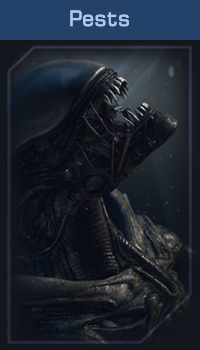
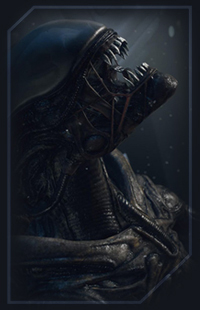
Style the navigation buttons in the navbar

diff --git a/assets/css/style.css b/assets/css/style.css
@@ -159,10 +159,13 @@ nav span {
     color: #AECAEA;
 }
 
-.nav-about-img {
-    background-image: url("../images/navigation-about-full.jpg");
+.nav-img {
     height: 280px;
     margin-top: 10px;
+}
+
+.nav-about-img {
+    background-image: url("../images/navigation-about-full.jpg");
 }
 
 nav span:hover {
@@ -176,3 +179,66 @@ nav span:hover > .nav-about-img {
 .nav-about-img:hover {
     background-image: url("../images/navigation-about-on-full.jpg");
 }
+
+.nav-services-img {
+    background-image: url("../images/navigation-services-full.jpg");
+}
+
+.nav-services-img:hover {
+    background-image: url("../images/navigation-services-on-full.jpg");
+}
+
+nav span:hover > .nav-services-img {
+    background-image: url("../images/navigation-services-on-full.jpg");
+}
+
+.nav-pests-img {
+    background-image: url("../images/navigation-pests-full.jpg");
+}
+
+.nav-pests-img:hover {
+    background-image: url("../images/navigation-pests-on-full.jpg");
+}
+
+nav span:hover > .nav-pests-img {
+    background-image: url("../images/navigation-pests-on-full.jpg");
+}
+
+.nav-testimonials-img {
+    background-image: url("../images/navigation-testimonials-full.jpg");
+}
+
+.nav-testimonials-img:hover {
+    background-image: url("../images/navigation-testimonials-on-full.jpg");
+}
+
+nav span:hover > .nav-testimonials-img {
+    background-image: url("../images/navigation-testimonials-on-full.jpg");
+}
+
+.nav-team-img {
+    background-image: url("../images/navigation-team-full.jpg");
+}
+
+.nav-team-img:hover {
+    background-image: url("../images/navigation-team-on-full.jpg");
+}
+
+nav span:hover > .nav-team-img {
+    background-image: url("../images/navigation-team-on-full.jpg");
+}
+
+.nav-contact-img {
+    background-image: url("../images/navigation-contact-full.jpg");
+}
+
+.nav-contact-img:hover {
+    background-image: url("../images/navigation-contact-on-full.jpg");
+}
+
+nav span:hover > .nav-contact-img {
+    background-image: url("../images/navigation-contact-on-full.jpg");
+}
+
+
+

diff --git a/index.html b/index.html
@@ -43,26 +43,34 @@
         <div>
             <a href="#">
                 <span>About
-                    <span class="nav-about-img"></span>
+                    <span class="nav-img nav-about-img"></span>
                 </span>
             </a>
             <a href="#">
                 <span>Services
-                    <span class="nav-about-img"></span>
+                    <span class="nav-img nav-services-img"></span>
                 </span>
             </a>
-            <span>
-                c
-            </span>
-            <span>
-                d
-            </span>
-            <span>
-                e
-            </span>
-            <span>
-                f
-            </span>
+            <a href="#">
+                <span>Pests
+                    <span class="nav-img nav-pests-img"></span>
+                </span>
+            </a>
+            <a href="#">
+                <span>Testimonials
+                    <span class="nav-img nav-testimonials-img"></span>
+                </span>
+            </a>
+            <a href="#">
+                <span>Team
+                    <span class="nav-img nav-team-img"></span>
+                </span>
+            </a>
+            <a href="#">
+                <span>Contact
+                    <span class="nav-img nav-contact-img"></span>
+                </span>
+            </a>
         </div>
 
         <!-- <div class="navigation">
